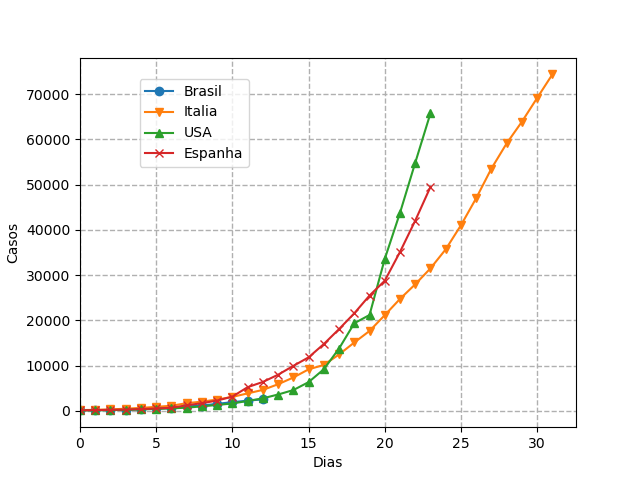
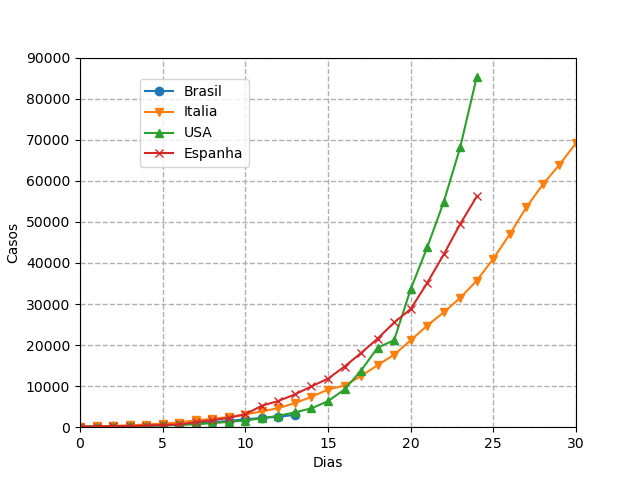
Atualizacap dos dados. Mudancas na classe.

diff --git a/Main.py b/Main.py
@@ -14,11 +14,7 @@ def main():
     for i, pais in enumerate(paises):
         with open('data/'+pais) as file:
 
-            nome_pais = pais.split('.')[0]
-            if nome_pais.lower() in 'usa':
-                nome_pais = nome_pais.upper()
-            else:
-                nome_pais = nome_pais.capitalize()
+            nome_pais = Pais.nome_reg(pais)
 
             p = Pais(nome_pais)
 
@@ -28,22 +24,29 @@ def main():
         ax1.plot(p.dia, p.casos , label=p.nome, ls='-', marker=mk[i])
         ax2.plot(p.dia, p.mortes, label=p.nome, ls='-', marker=mk[i])
 
+        print(f"{p.nome:10} = {p.percentual():6.2f} %")
+
     # ... grafico casos
-    ax1.set_xlim(0)
+    ax1.set_xlim(0,30)
+    ax1.set_ylim(0,90000)
     ax1.set_xlabel('Dias')
     ax1.set_ylabel('Casos')
     ax1.grid(lw=1, ls='--')
     fig1.legend(bbox_to_anchor=(0.4, 0.85))
 
     # ... grafico mortes
-    ax2.set_xlim(0)
+    ax2.set_xlim(0,30)
+    ax2.set_ylim(0,10000)
     ax2.set_xlabel('Dias')
     ax2.set_ylabel('Mortes')
     ax2.grid(lw=1, ls='--')
     fig2.legend(bbox_to_anchor=(0.4, 0.85))
 
-    fig1.savefig('fig/casos.pdf')
-    fig2.savefig('fig/mortes.pdf')
+    fig1.savefig('fig/casos.png')
+    fig2.savefig('fig/mortes.png')
+#   plt.show()
+
+
 
 if __name__ == "__main__":
     main()

diff --git a/Pais.py b/Pais.py
@@ -7,6 +7,9 @@ class Pais:
         self.__casos = []
         self.__mortes = []
 
+    def percentual(self):
+        return self.__mortes[-1]/self.__casos[-1]*100.e0
+
     @property
     def nome(self):
         return self.__nome
@@ -42,3 +45,13 @@ class Pais:
     @mortes.setter
     def mortes(self, v):
         self.__mortes.append(int(v))
+
+    @staticmethod
+    def nome_reg(pais):
+        nome_pais = pais.split('.')[0]
+        if nome_pais.lower() in 'usa':
+            nome_pais = nome_pais.upper()
+        else:
+            nome_pais = nome_pais.capitalize()
+
+        return nome_pais
